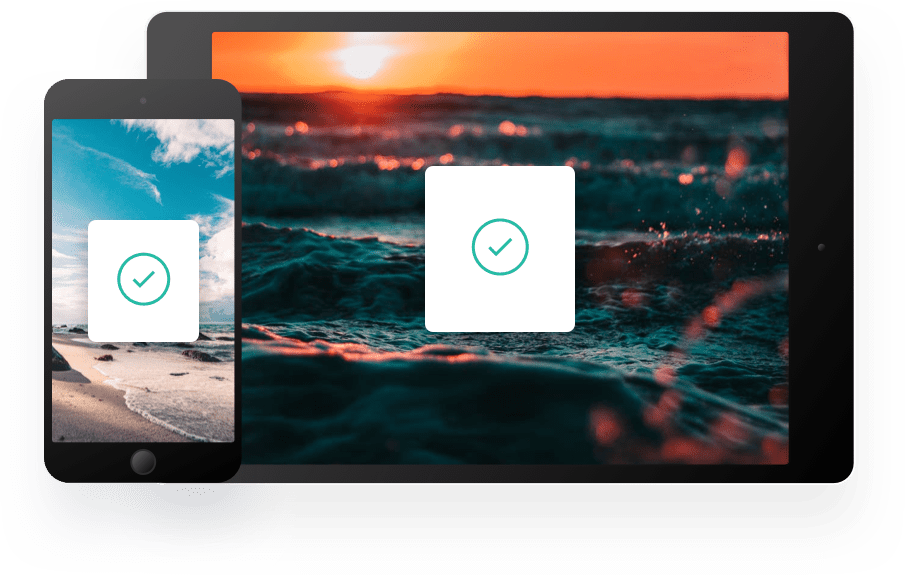
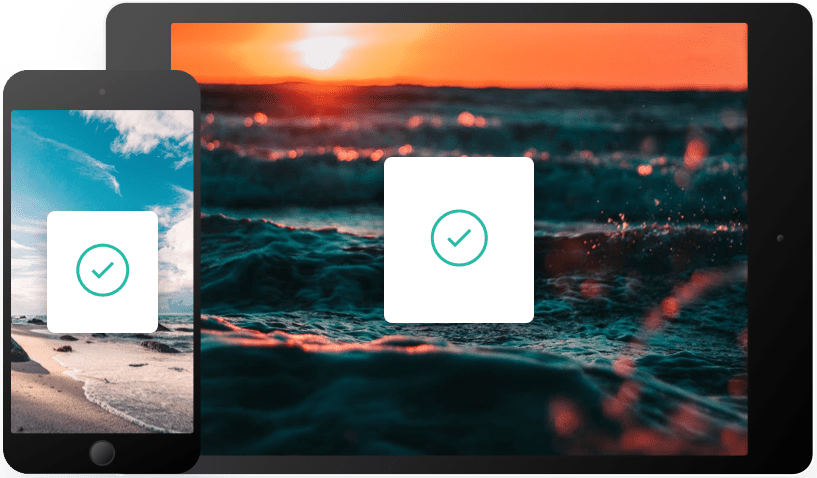
Responsividade 1440px na seção header

diff --git a/style/header.css b/style/header.css
@@ -1,11 +1,16 @@
+body {
+    padding-top: 3em;
+    background-image: url("/img/bg-header-mobile.png");
+    background-repeat: no-repeat;
+}
+
 .container__principal {
     text-align: center;
-    padding: 30vw 0.8em 6em 0.8em;
+    padding: 3em 0.8em 5em 0.8em;
 }
 
 .cabeçalho {
-    background-image: url("/img/bg-header-mobile.png");
-    background-repeat: no-repeat;
+    
 }
 
 .titulo__header {
@@ -22,22 +27,58 @@
 }
 
 .caixa__botao {
-    margin-top: 2em;
+    margin-top: 3.5em;
 }
 
 .botao__primario {
     display: inline-block;
-    margin-top: 1em;
     padding: 1em 5em;
     background: var(--cor-botao-primario);
     border-radius: 25px;
     text-decoration: none;
     font-weight: 600;
     color: var(--cor-texto-botao);
-    box-shadow: 1px 4px hsl(171, 65%, 36%);
+    box-shadow: 
+        1px 4px hsl(171, 65%, 36%),
+        0px 5px 25px hsl(169, 57%, 72%);
 }
 
 .botao__secundario {
     background: var(--cor-botao-secundario);
-    box-shadow: 1px 4px hsl(233, 67%, 60%);
+    box-shadow: 
+        1px 4px hsl(233, 67%, 60%),
+        0px 5px 25px hsl(231, 62%, 74%);
+}
+
+@media screen and (min-width: 1440px) {
+    body {
+        background-image: url("/img/bg-header-desktop.png");
+    }
+
+    .titulo__header {
+        font-size: 44px;
+    }
+
+    .descricao__header {
+        margin: 0 25vw;
+        font-size: 20px;
+    }
+
+    .caixa__botao {
+        margin-top: 2.5em;
+    }
+
+    .botao__primario {
+        padding: 1em 2em;
+        margin: 0 0.3em;
+        font-weight: 400;
+    }
+
+    .botao__primario {
+        box-shadow: 0px 7px 20px -5px hsl(169, 57%, 72%);
+    }
+
+    .botao__secundario {
+        box-shadow: 0px 7px 20px -5px hsl(231, 62%, 74%);
+    }
 }

diff --git a/index.html b/index.html
@@ -50,7 +50,7 @@
                 <p class="descricao">Whether you’re on the go, or at your computer, you can access all your Clipboard snippets in a few simple clicks.</p>
             </div>
             <div class="container">
-                <img src="/img/image-devices.png" class="imagens" alt="">
+                <img src="/img/image-devices.png" class="imagens sombra" alt="">
             </div>
         </section>
         <section class="container__principal ferramentas">

diff --git a/style/conectividade.css b/style/conectividade.css
@@ -1,3 +1,11 @@
 .conectividade {
     padding-top: 0;
 }
+
+.container {
+    padding-bottom: 2em;
+}
+
+.sombra {
+    box-shadow: 0px 40px 35px #e7e7e7;
+}

diff --git a/style/colaboradores.css b/style/colaboradores.css
@@ -1,5 +1,6 @@
 .colaboradores {
     padding-top: 0;
+    padding-bottom: 0;
 }
 
 .container__colaboradores {

diff --git a/style/download.css b/style/download.css
@@ -1,3 +1,4 @@
 .download {
-    padding-top: 0;
+    padding-bottom: 10em;
 }
+

diff --git a/README.md b/README.md
@@ -35,7 +35,7 @@ Os usuários devem ser capazes de:
 
 ### O que aprendi
 
-Durante a elaboração do header, na criação dos botões, houve um pequeno desafio, o sombreamento. A documentação de box-shadow da MDN foi crucial para o aprendizado dessa propriedade.
+Durante a elaboração do header, na criação dos botões, houve um pequeno desafio, o sombreamento. Pude observar que existiam dois estilos de sombra, não sabia dessa funcionalidade. A documentação de box-shadow da MDN foi crucial para o aprendizado.
 
 Trechos de destaque:
 
@@ -45,19 +45,15 @@ Trechos de destaque:
 
 ```css
 .botao__primario {
-    display: inline-block;
-    background: var(--cor-botao-primario);
-    border-radius: 25px;
-    text-decoration: none;
-    font-weight: 600;
-    color: var(--cor-texto-botao);
-    box-shadow: 1px 4px hsl(171, 65%, 36%);
+    box-shadow: 
+        1px 4px hsl(171, 65%, 36%),
+        0px 5px 25px hsl(169, 57%, 72%);
 }
 ```
 
 ### Recursos
 
-- [box-shadow](https://developer.mozilla.org/pt-BR/docs/Web/CSS/box-shadow) - Este é um site relevante para quem deseja aprender.
+- [Box Shadow CSS Generator](https://cssgenerator.org/box-shadow-css-generator.html) - Este é um site relevante para quem deseja aprender, aqui podemos simular diversos cenários de sombra.
 
 ## Autor
 
